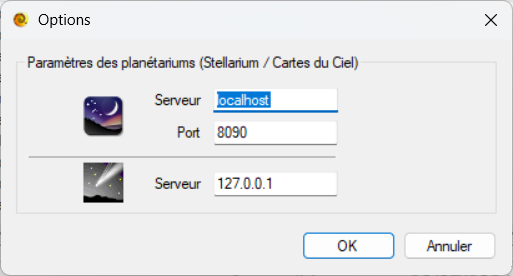
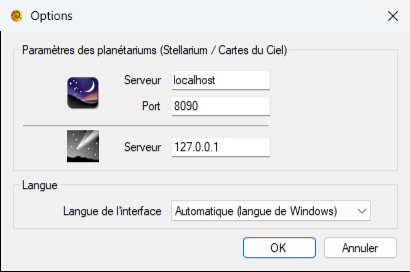
README : captures des boîtes Options et À propos (1.0.1.0)
- Boîte Options : nouvelle capture avec le choix de la langue de l'interface,
  description des valeurs possibles (automatique, français, English)
- Boîte À propos : nouvelle capture (version 1.0.1.0)

Changed region(s): [[0.0293, 0.1471, 0.7024, 0.7353], [0.0, 0.0, 1.0, 1.0]]

diff --git a/README.md b/README.md
@@ -110,13 +110,22 @@ Cette action permet d'ouvrir la boîte de dialogue ***Options***.
 ##### Boîte de dialogue 'Options'
 ![Boîte de dialogue Options](images/BoiteDeDialogue_Options.png)
 
-Cette boîte de dialogue permet de définir les options de communication avec les logiciels ***Stellarium*** et ***Cartes du Ciel***.\
+Cette boîte de dialogue permet de définir les options de communication avec les logiciels ***Stellarium*** et ***Cartes du Ciel***, ainsi que la langue de l'interface.\
 Les Options par défaut sont :
 - ***Stellarium*** :
     - Serveur   : **localhost**
     - Port      : **8090**
 - ***Cartes du Ciel*** :
     - Serveur   : **127.0.0.1**
+- **Langue de l'interface** : **Automatique (langue de Windows)**
+
+La langue de l'interface peut être :
+- **Automatique (langue de Windows)** : **ASO** s'affiche en français si Windows est en français, en anglais pour toutes les autres langues.
+- **Français**
+- **English**
+
+> [!NOTE]
+> Le changement de langue est pris en compte au prochain démarrage de **ASO**.
 
 <p align="right"><a href="#sommaire">Retour au sommaire</a></p>
 
